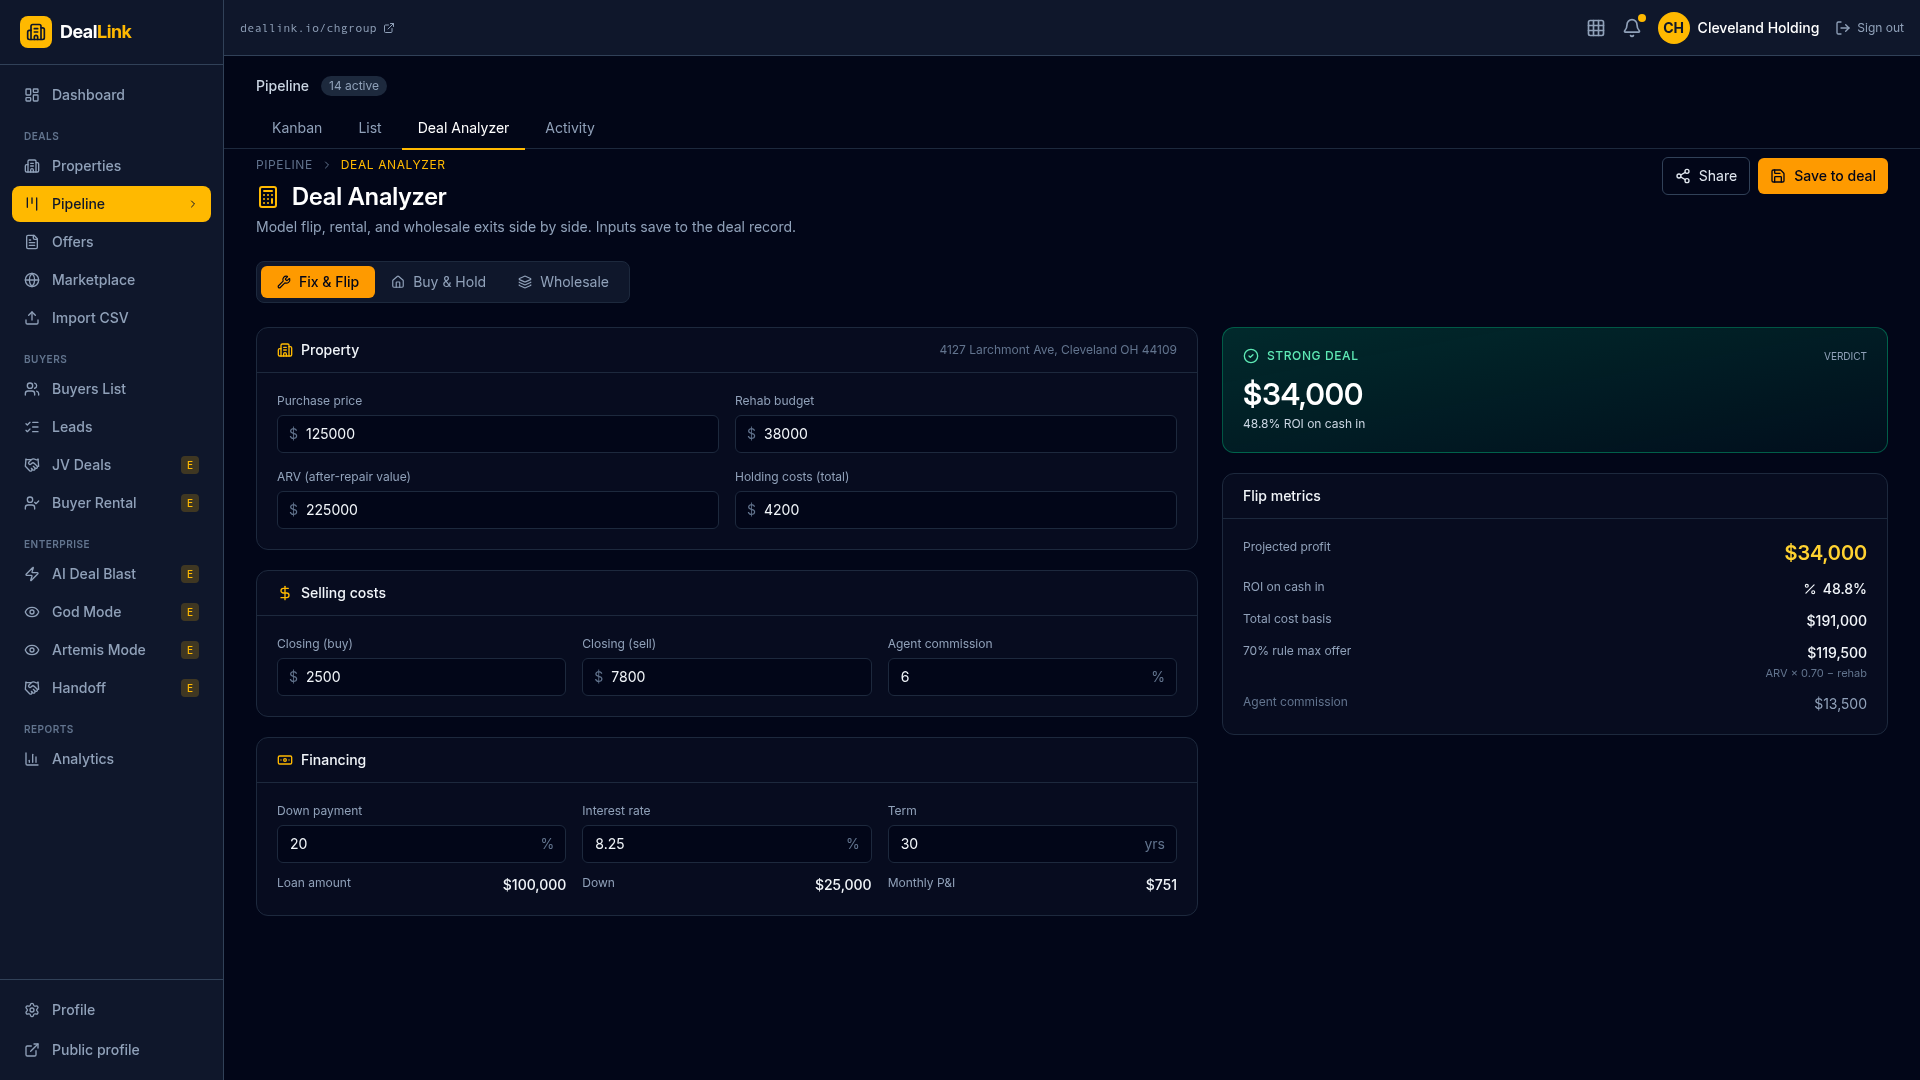
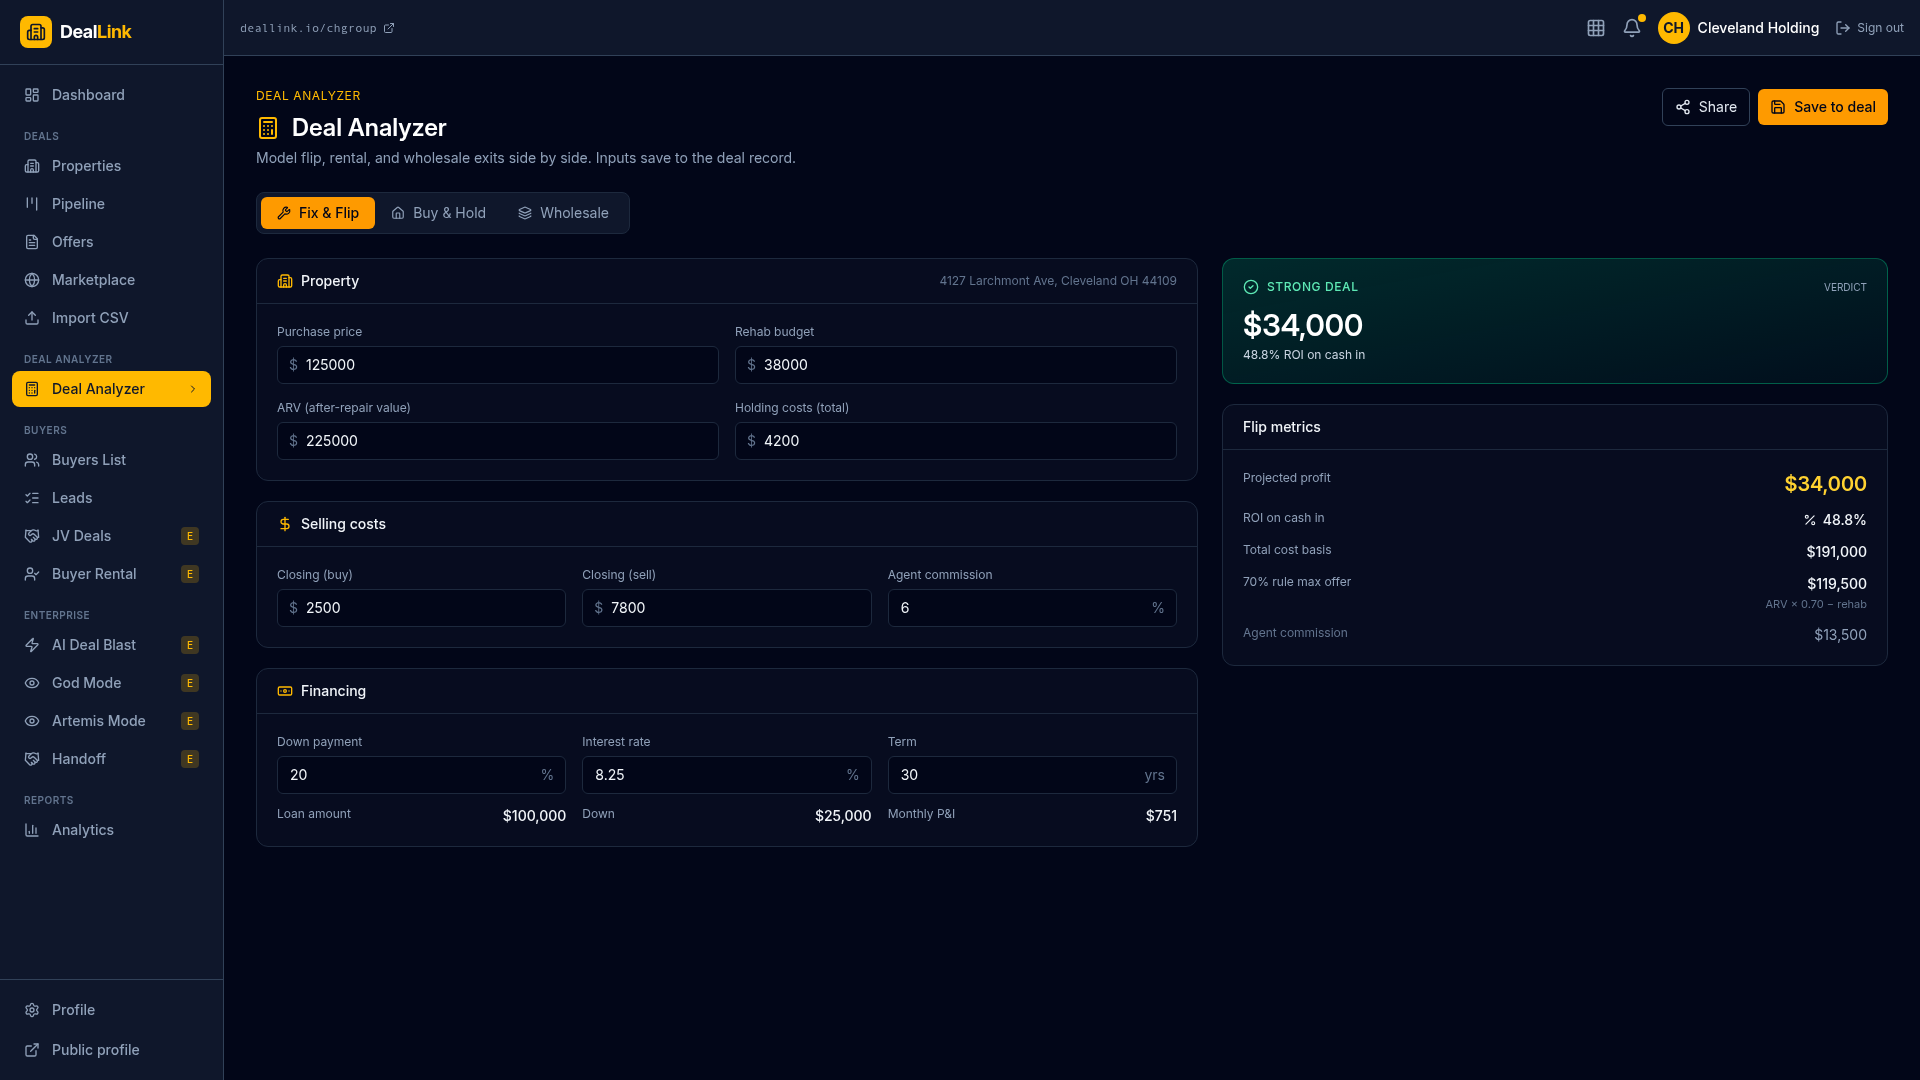
Restructure navigation to separate Deal Analyzer into its own section
Update sidebar navigation and page header to isolate the Deal Analyzer module, removing it from the Pipeline hierarchy and creating a dedicated navigation group for it.

Replit-Commit-Author: Agent
Replit-Commit-Session-Id: 73b504ab-ea4e-47ae-ad46-659427b0a12b
Replit-Commit-Checkpoint-Type: full_checkpoint
Replit-Commit-Event-Id: 42745568-635b-4dd6-82d7-7c842fd9fea4
Replit-Commit-Screenshot-Url: https://storage.googleapis.com/screenshot-production-us-central1/2677eca4-b719-4cda-9454-697795799f58/73b504ab-ea4e-47ae-ad46-659427b0a12b/IZkQvxJ
Replit-Helium-Checkpoint-Created: true

diff --git a/artifacts/mockup-sandbox/src/components/mockups/deal-analyzer/DealAnalyzer.tsx b/artifacts/mockup-sandbox/src/components/mockups/deal-analyzer/DealAnalyzer.tsx
@@ -106,15 +106,12 @@ export function DealAnalyzer() {
       <DealLinkSidebar />
       <div className="flex-1 min-w-0 flex flex-col">
         <DealLinkTopbar />
-        <PipelineChrome />
 
-      <div className="px-8 pb-12">
+      <div className="px-8 pb-12 pt-6">
         {/* Page header */}
         <div className="flex items-start justify-between gap-4 pt-2">
           <div>
             <div className="flex items-center gap-2 text-xs text-slate-500 uppercase tracking-wider mb-2">
-              <span>Pipeline</span>
-              <ChevronRight className="w-3 h-3" />
               <span className="text-amber-400">Deal Analyzer</span>
             </div>
             <h1 className="text-2xl font-semibold text-white flex items-center gap-3">
@@ -276,10 +273,13 @@ const NAV_GROUPS: { label: string | null; items: { label: string; icon: any; act
   { label: null, items: [{ label: "Dashboard", icon: LayoutDashboard }] },
   { label: "Deals", items: [
     { label: "Properties", icon: Building2 },
-    { label: "Pipeline", icon: Kanban, active: true },
+    { label: "Pipeline", icon: Kanban },
     { label: "Offers", icon: FileText },
     { label: "Marketplace", icon: Globe },
     { label: "Import CSV", icon: Upload },
+  ]},
+  { label: "Deal Analyzer", items: [
+    { label: "Deal Analyzer", icon: Calculator, active: true },
   ]},
   { label: "Buyers", items: [
     { label: "Buyers List", icon: Users },